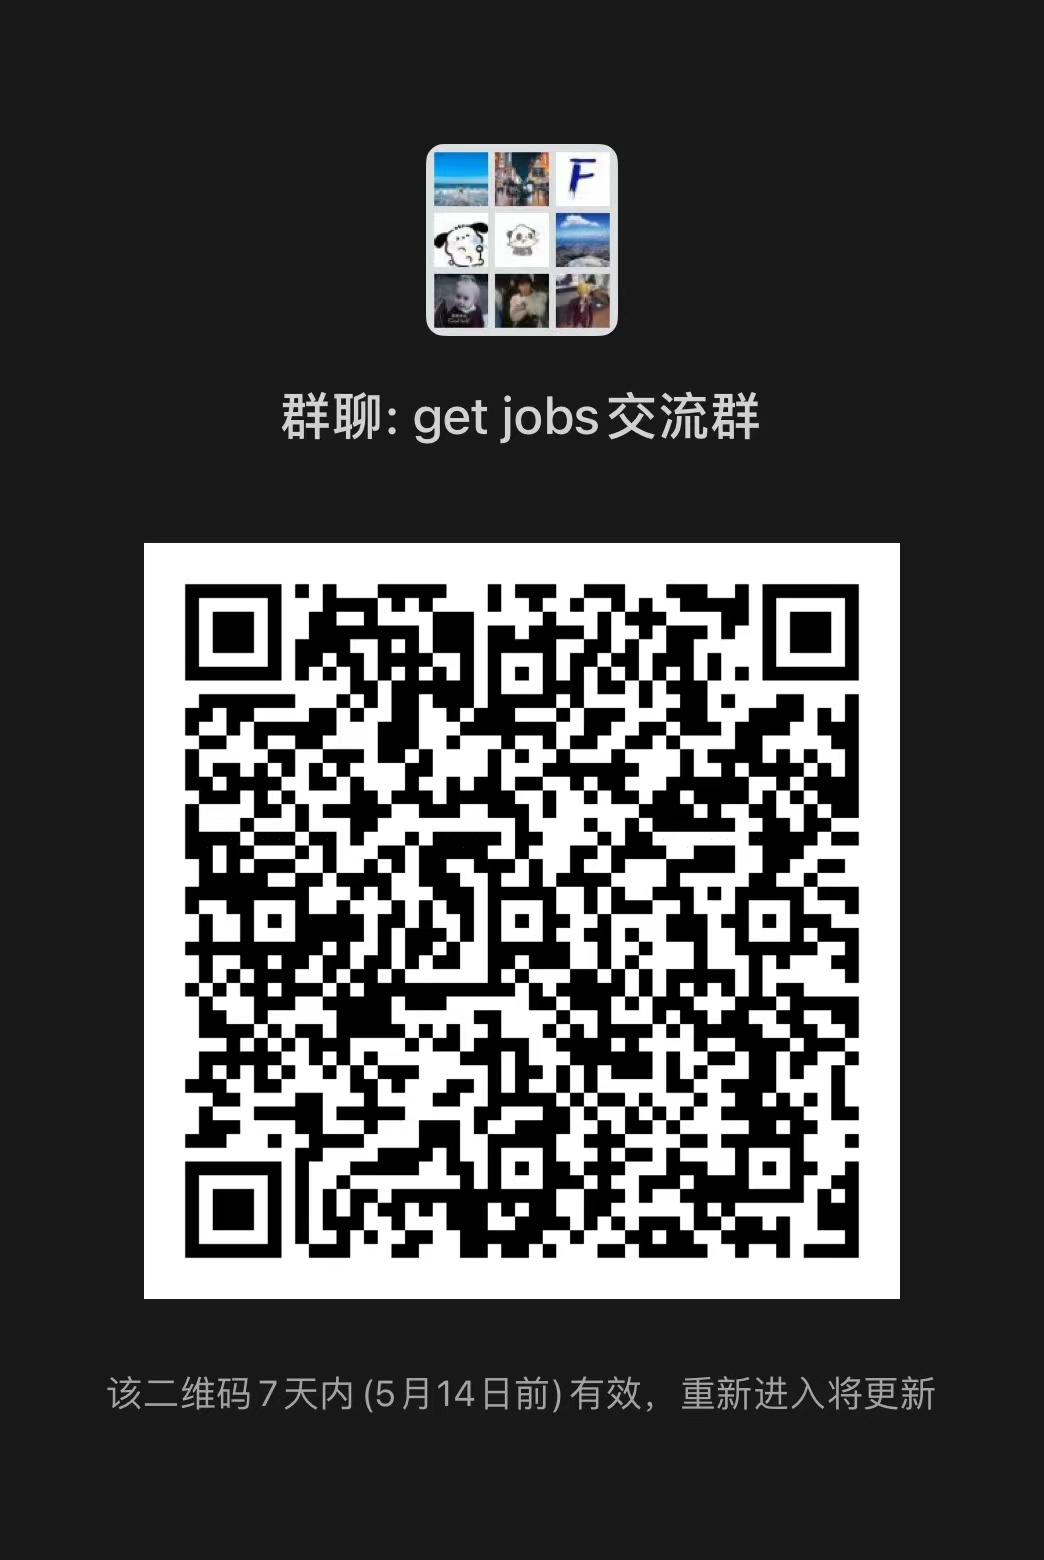
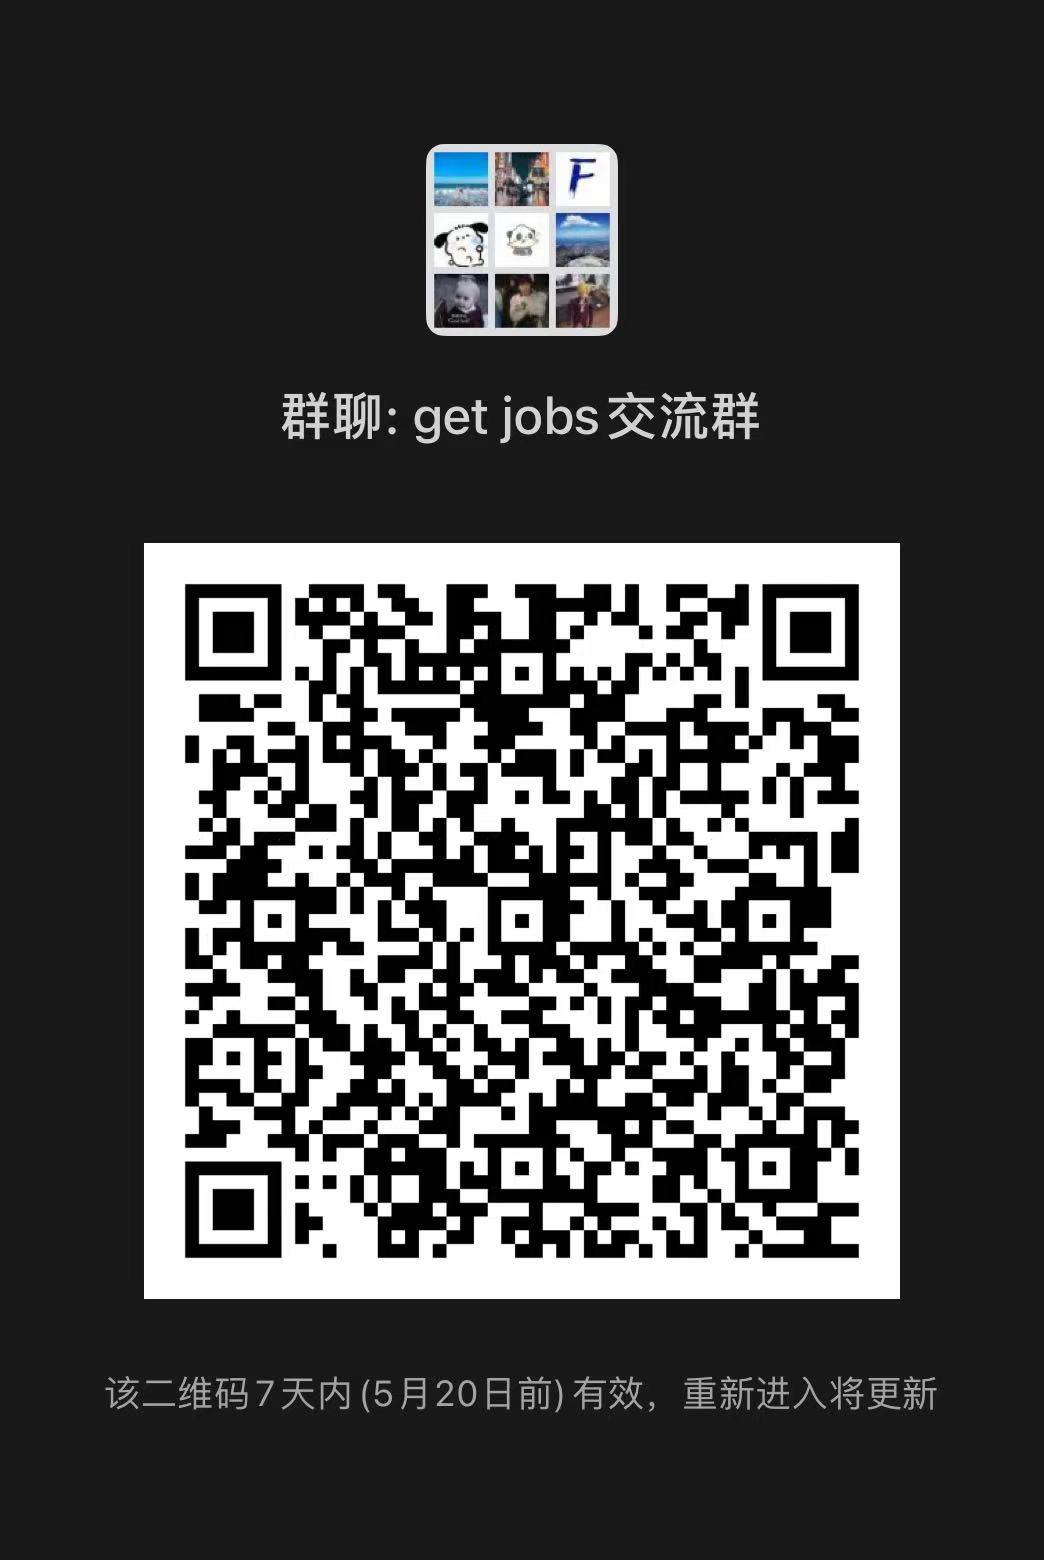
🌈update wechat group invite link.

diff --git a/README.md b/README.md
@@ -19,7 +19,7 @@
 - 集中化配置，仅需修改配置文件即可完成自定义筛选
 - 全局日志记录，投递记录可追踪
 - 内置driver驱动，自动判断系统环境适配驱动版本
-- 超长cookie登录，每周仅需扫码一次(理论上时间更久)
+- 超长cookie登录，大部分平台每周仅需扫码一次
 - 内置xpathHelper插件，方便快速定位元素
 - Boss默认过滤猎头岗位，可修改代码自定义修改条件
 - Boss自动更新黑名单企业，避免重复投递
@@ -27,10 +27,10 @@
 
 ### 🔞 注意事项
 
-- 如你有“折腾精神”希望自己配置，QQ群内提供免费答疑，如你不想麻烦，可联系群主付费部署
-- 由于不同系统的页面不一样，导致可能不兼容，文末会给出文档，尽可能让大家能自定义修改
-- 必须要关闭墙外代理，由于主要针对的国内平台，墙外代理会导致页面加载缓慢
-- 如您不方便访问github，可使用码云镜像(中国大陆)版本：[gitee/getjobs](https://gitee.com/loks666/get_jobs)
+- ❌必须要关闭墙外代理，由于主要针对的国内平台，墙外代理会导致页面加载缓慢
+- 💪🏻如你有“折腾精神”希望自己配置，QQ群内提供免费答疑，如你不想麻烦，可联系群主付费部署
+- 📰由于不同系统的页面不一样，导致可能不兼容，文末会给出文档，尽可能让大家能自定义修改
+- 🚩如您不方便访问github，可使用码云镜像(中国大陆)版本：[gitee/getjobs](https://gitee.com/loks666/get_jobs)
 
 > 已经有人在交流群里 **发广告** 等与本项目无关的信息  
 > 如果带着不同目的或者没想清楚就进群的  
@@ -53,8 +53,10 @@ cd get_jobs
 
 - 目前程序自动判断系统环境，使用对应的chromedriver，无需手动下载
 - 但是你的Chrome版本必须是在Chrome官网下载的，并且为最新版本，才可使用
-- 如果你是mac m1芯片的版本，需要解压【[chromedriver-mac-arm64.zip](src/Fmain/Fresources/Fchromedriver-mac-arm64.zip)
-  】后才能使用
+- 如果你是mac intel芯片版本，请自行下载对应的驱动到src/main/resources路径下解压
+- 如果你是mac m1芯片的版本，需要解压【[chromedriver-mac-arm64.zip](src/main/resources/chromedriver-mac-arm64.zip)
+  】后使用
+- 如果你是linux系统，需要解压【[chromedriver-linux64.zip](src/main/resources/chromedriver-linux64.zip)】后使用
 
 更多环境配置详情请点击：📚 [环境配置](https://github.com/loks666/get_jobs/wiki/环境配置)
 
@@ -181,9 +183,9 @@ cd get_jobs
 
 ## 👨🏻🔧 QQ群
 
-- 扫码添加：加群答案为本项目仓库名【get_jobs】
+- 扫码添加：QQ加群答案为本项目仓库名【get_jobs】
 
-  <div style="display: flex;">
+<div style="display: flex;">
     <img src="src/main/resources/images/qq.jpg" alt="qq群" height="600">
     <img src="src/main/resources/images/wgroup.jpg" alt="微信群" height="600">
 
@@ -197,21 +199,27 @@ cd get_jobs
 
 > 本项目文档已相对完善，如仍需付费部署，请添加QQ群或微信联系群主
 
-- win与mac下环境部署：¥100/次
+- 如果你不想进行繁琐的配置：希望全部代部署：200/次
+- 如果你可以自己下载环境部署的的各种软件(IDEA，Maven，Java，Git)，只是希望帮忙配置环境运行：¥100/次
 - 如需定制化修改请联系商议
 - 请注意：
-    1. 本项目不支持服务器部署，无须尝试，如招聘网站发现访问者为服务器IP，不会返回任何网站数据
-    2. 在开发与部署过程有任何问题都可在群内沟通，如您需要远程调试，会根据问题的复杂性收取一定费用，一般不超过¥50。
+  1. 付费部署是包含配置环境后，每一个平台运行正常，但配置文件等岗位信息，需要自行修改，定制修改不包含部署范围内。
+  2. 本项目不支持服务器部署，无须尝试，如招聘网站发现访问者为服务器IP，不会返回任何网站数据。
+  3. 在开发与部署过程有任何问题都可在群内沟通，如您需要远程调试，会根据问题的复杂性收取一定费用，一般¥100起。 
 
 --- 
 
 ## 📑 更新日志
 
 - 2024-4-15 01:52:18
-    1. 新增config.yaml,目前仅需修改配置文件即可，已全平台支持
-    2. cookie有效期延长，保持至少一周（拉勾平台除外）
+  1. 新增config.yaml,目前仅需修改配置文件即可，已全平台支持
+  2. cookie有效期延长，保持至少一周（拉勾平台除外）【安慰剂】
 - 2024-4-28 15:20:06
-    1. boos,自动更新黑名单公司
+  1. boos：自动更新黑名单公司
+- 2024-5-13 01:49:38
+  1. boos：若公司名小于2个字或4个字母则不会添加进黑名单
+  2. 添加linux系统支持。
+
 --- 
 
 ## 🤝 参与贡献
@@ -225,7 +233,7 @@ cd get_jobs
 - 提交Pr流程：
     1. fork本项目
     2. 从master分支新建分支
-    3. 开发完成后提交pull request到lok666/get_jobs的release分支
+    3. 开发完成后提交pull request到lok666/get_jobs的【dev】分支，注意是dev！！！
     4. 等待管理员审核验证提交代码无误后，合并到master分支
 
 [![][pr-welcome-shield]][pr-welcome-link]
